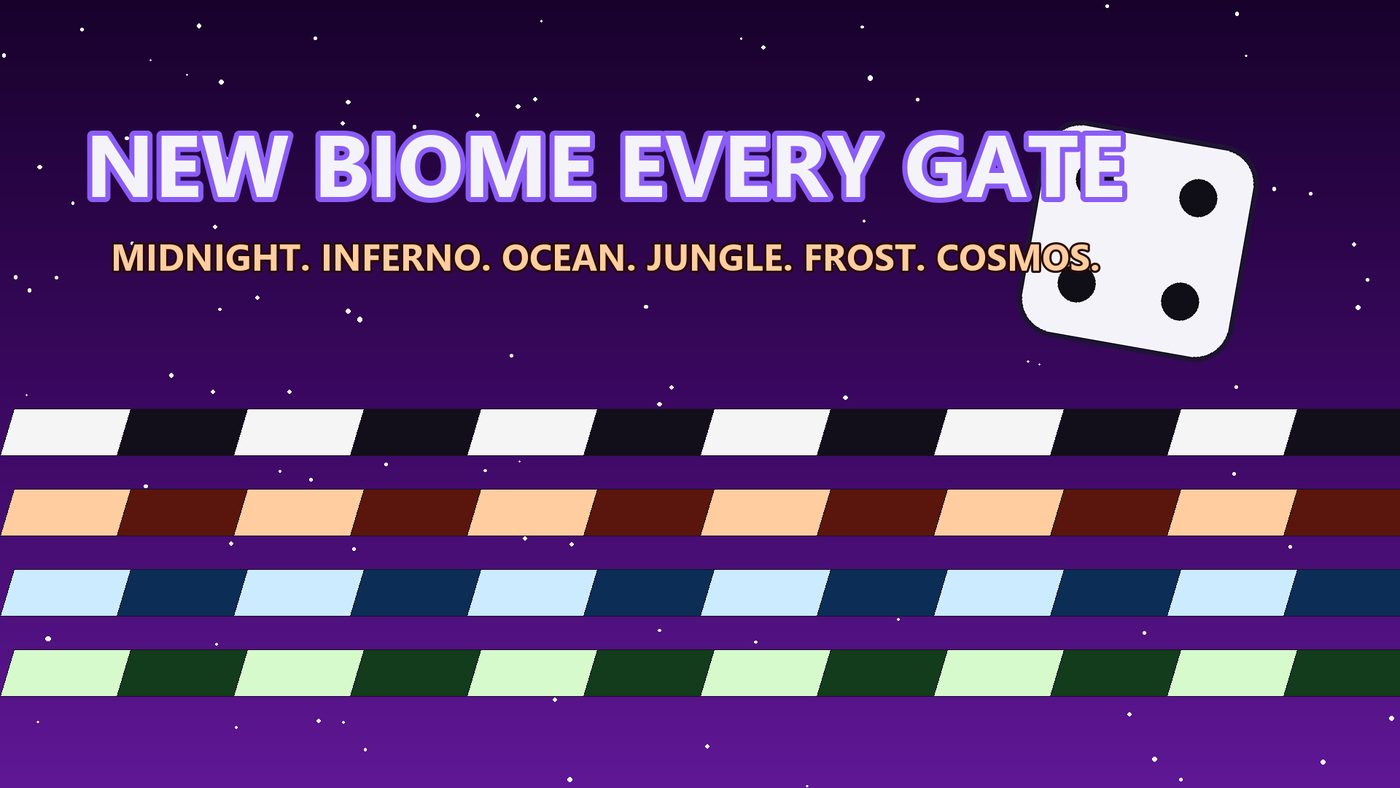
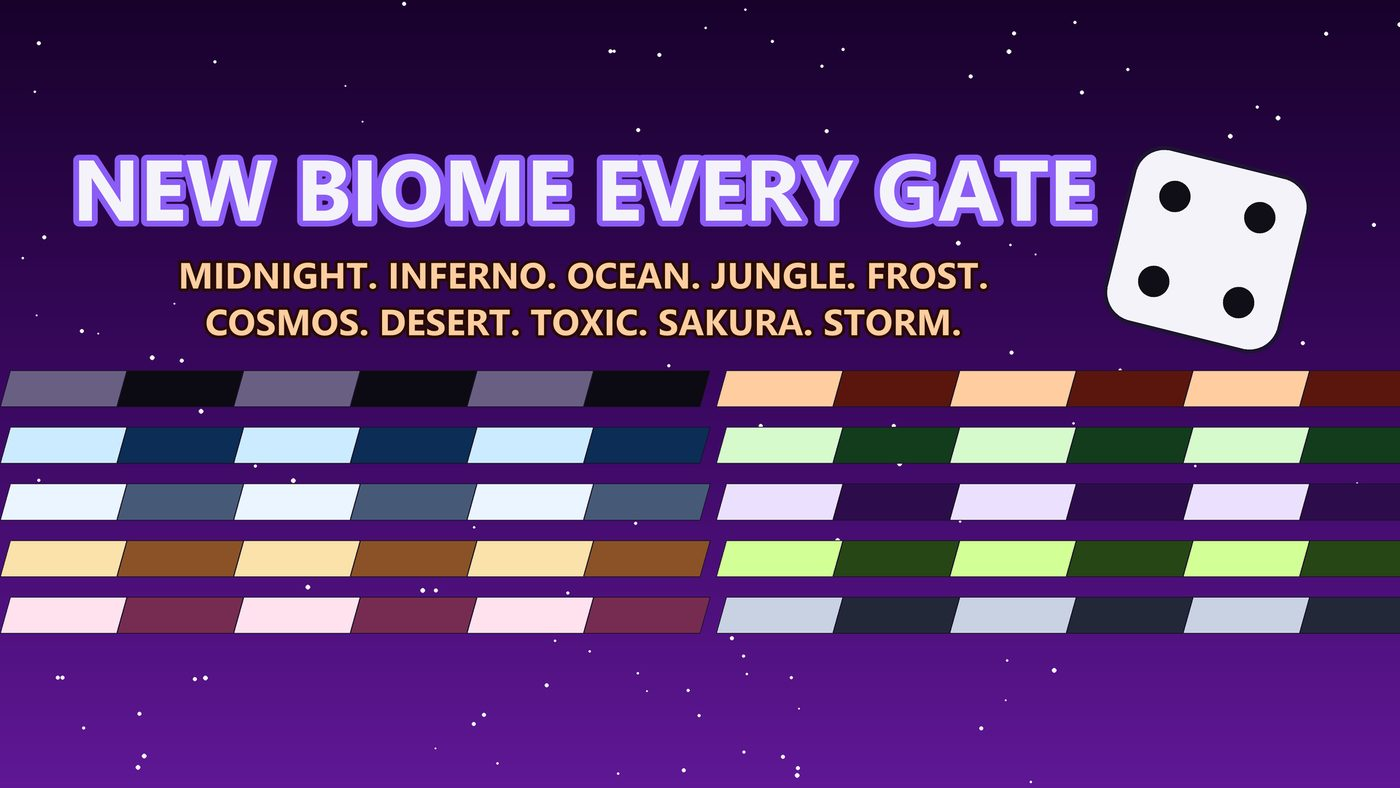
Rogue Roller 2.3.0: 10 biomes, plain gate perks, build panel
Regenerated from Config 2.3.0: four new biomes (Desert, Toxic, Sakura,
Storm) with a board preview and weather on each biome card, the seven
plain perks with icon art and a No downside tag, and the in-run build
panel and biome title card in the basics. New 10 biome banner art.

diff --git a/docs/stylesheets/extra.css b/docs/stylesheets/extra.css
@@ -212,13 +212,13 @@
 
 .rr-grid {
   display: grid;
-  grid-template-columns: repeat(auto-fill, minmax(15.5rem, 1fr));
+  grid-template-columns: repeat(auto-fill, minmax(min(15.5rem, 100%), 1fr));
   gap: 0.9rem;
   margin: 1.2em 0 2.2em;
 }
 
 .rr-grid--wide {
-  grid-template-columns: repeat(auto-fill, minmax(19rem, 1fr));
+  grid-template-columns: repeat(auto-fill, minmax(min(19rem, 100%), 1fr));
 }
 
 .rr-card {
@@ -642,20 +642,157 @@
   box-shadow: inset 0 -3px 0 rgba(0, 0, 0, 0.2), 0 0 14px color-mix(in srgb, var(--c) 50%, transparent);
 }
 
-.rr-strip {
+/* A biome's board preview arrives as the card body: pulled above the head and out to the card's edges. */
+.rr-scene {
   position: relative;
-  height: 3.4rem;
-  border-radius: 12px;
-  background: var(--void);
+  order: -1;
+  height: 7.5rem;
+  margin: -0.95rem -1rem 0;
   overflow: hidden;
+  background:
+    radial-gradient(55% 60% at 50% 60%, color-mix(in srgb, var(--sparkle) 24%, transparent), transparent 72%),
+    linear-gradient(180deg, color-mix(in srgb, var(--void) 55%, #000) 0%, var(--void) 100%);
 }
 
-.rr-strip::before {
+.rr-biome::before {
+  z-index: 1;
+}
+
+/* The shadow sits on the outer box so it falls straight down the screen, under the tilted row. */
+.rr-board {
+  position: absolute;
+  top: 56%;
+  left: 50%;
+  transform: translate(-50%, -50%);
+  filter: drop-shadow(0 0.9rem 0.6rem rgba(0, 0, 0, 0.55));
+}
+
+.rr-board span {
+  display: flex;
+  gap: 0.2rem;
+  transform: perspective(22rem) rotateX(52deg) rotateZ(-16deg);
+}
+
+.rr-board i {
+  width: 2rem;
+  height: 2rem;
+  border-radius: 0.3rem;
+  background: var(--light);
+  box-shadow: inset 0 0 0 1px rgba(255, 255, 255, 0.25), 0 0.3rem 0 color-mix(in srgb, var(--light) 55%, #000);
+}
+
+.rr-board i:nth-child(even) {
+  background: var(--dark);
+  box-shadow: inset 0 0 0 1px rgba(255, 255, 255, 0.1), 0 0.3rem 0 color-mix(in srgb, var(--dark) 55%, #000);
+}
+
+.rr-mote {
+  position: absolute;
+  width: 0.3rem;
+  height: 0.3rem;
+  border-radius: 50%;
+  background: var(--sparkle);
+  box-shadow: 0 0 0.45rem var(--sparkle);
+  opacity: 0.85;
+}
+
+.rr-mote:nth-of-type(1) { left: 9%; top: 22%; }
+.rr-mote:nth-of-type(2) { left: 30%; top: 86%; scale: 0.7; }
+.rr-mote:nth-of-type(3) { left: 36%; top: 12%; scale: 1.25; }
+.rr-mote:nth-of-type(4) { left: 55%; top: 24%; scale: 0.8; }
+.rr-mote:nth-of-type(5) { left: 74%; top: 12%; }
+.rr-mote:nth-of-type(6) { left: 90%; top: 40%; scale: 1.3; }
+.rr-mote:nth-of-type(7) { left: 82%; top: 80%; scale: 0.75; }
+
+.rr-scene--embers .rr-mote {
+  width: 0.22rem;
+  height: 0.22rem;
+  box-shadow: 0 0 0.3rem 0.08rem var(--sparkle);
+}
+
+.rr-scene--fireflies .rr-mote,
+.rr-scene--spores .rr-mote {
+  box-shadow: 0 0 0.4rem 0.14rem var(--sparkle);
+}
+
+.rr-scene--spores .rr-mote {
+  width: 0.42rem;
+  height: 0.42rem;
+  opacity: 0.6;
+}
+
+.rr-scene--bubbles .rr-mote {
+  width: 0.5rem;
+  height: 0.5rem;
+  background: transparent;
+  border: 1.5px solid var(--sparkle);
+  box-shadow: 0 0 0.3rem color-mix(in srgb, var(--sparkle) 45%, transparent);
+}
+
+.rr-scene--stars .rr-mote {
+  width: 0.6rem;
+  height: 0.6rem;
+  border-radius: 0;
+  box-shadow: none;
+  clip-path: polygon(50% 0, 61% 39%, 100% 50%, 61% 61%, 50% 100%, 39% 61%, 0 50%, 39% 39%);
+}
+
+.rr-scene--petals .rr-mote {
+  width: 0.55rem;
+  height: 0.34rem;
+  border-radius: 80% 0;
+  rotate: -25deg;
+  box-shadow: none;
+}
+
+.rr-scene--dust .rr-mote {
+  width: 0.9rem;
+  height: 0.12rem;
+  border-radius: 0.1rem;
+  rotate: -6deg;
+  box-shadow: none;
+  opacity: 0.6;
+}
+
+.rr-scene--rain .rr-mote {
+  width: 0.12rem;
+  height: 1rem;
+  border-radius: 0.1rem;
+  rotate: -16deg;
+  box-shadow: none;
+  opacity: 0.6;
+}
+
+.rr-scene--rain::after {
   content: "";
   position: absolute;
-  inset: 0.9rem -1.5rem;
-  transform: skewX(-24deg);
-  background: repeating-linear-gradient(90deg, var(--light) 0 2.2rem, var(--dark) 2.2rem 4.4rem);
+  top: 0.3rem;
+  left: 63%;
+  width: 1rem;
+  height: 2.6rem;
+  background: var(--sparkle);
+  clip-path: polygon(55% 0, 15% 55%, 45% 55%, 30% 100%, 85% 40%, 55% 40%, 75% 0);
+}
+
+/* On hover the air moves the way the biome's weather does. */
+@media (prefers-reduced-motion: no-preference) {
+  .rr-mote {
+    transition: translate 0.6s ease;
+  }
+
+  .rr-biome:hover .rr-mote {
+    translate: 0 -0.35rem;
+  }
+
+  .rr-biome:hover .rr-scene--snow .rr-mote,
+  .rr-biome:hover .rr-scene--petals .rr-mote,
+  .rr-biome:hover .rr-scene--rain .rr-mote {
+    translate: 0.15rem 0.4rem;
+  }
+
+  .rr-biome:hover .rr-scene--dust .rr-mote {
+    translate: 0.6rem 0;
+  }
 }
 
 /* ------------------------------------------------------------ home and section tiles */

diff --git a/docs/rogue-roller/gate-perks.md b/docs/rogue-roller/gate-perks.md
@@ -6,7 +6,7 @@ Every biome gate lets you pick a free perk card. Perks last for the rest of the 
 
 ## Perk cards
 
-There are **21 perks**. Some pairs pull against each other, like Night Owl and Daybreak: taking the opposite card evens things out again.
+There are **28 perks**. The 11 tagged **No downside** only ever help. Most of the rest trade one thing for another, and some pairs pull against each other, like Night Owl and Daybreak: taking the opposite card evens things out again.
 
 <div class="rr-grid ">
 <div class="rr-card " style="--ring: #8b5cf6"><div class="rr-card-head"><img class="rr-art rr-art--icon" src="../../assets/rogue-roller/icons/perks/perkNightOwl.png" alt="" loading="lazy"><div class="rr-card-title"><strong>Night Owl</strong></div></div><p class="rr-card-body">Dark tiles pay double and light tiles pay half.</p></div>
@@ -14,15 +14,15 @@ There are **21 perks**. Some pairs pull against each other, like Night Owl and D
 <div class="rr-card " style="--ring: #8b5cf6"><div class="rr-card-head"><img class="rr-art rr-art--icon" src="../../assets/rogue-roller/icons/perks/perkEvenKeel.png" alt="" loading="lazy"><div class="rr-card-title"><strong>Even Keel</strong></div></div><p class="rr-card-body">Roll an even number and the roll pays double. Odd numbers pay half.</p></div>
 <div class="rr-card " style="--ring: #8b5cf6"><div class="rr-card-head"><img class="rr-art rr-art--icon" src="../../assets/rogue-roller/icons/perks/perkOddity.png" alt="" loading="lazy"><div class="rr-card-title"><strong>Odd One Out</strong></div></div><p class="rr-card-body">Roll an odd number and the roll pays double. Even numbers pay half.</p></div>
 <div class="rr-card " style="--ring: #8b5cf6"><div class="rr-card-head"><img class="rr-art rr-art--icon" src="../../assets/rogue-roller/icons/perks/perkHighRoll.png" alt="" loading="lazy"><div class="rr-card-title"><strong>High Roller</strong></div></div><p class="rr-card-body">Roll a 4 or higher and the roll pays double. Lower rolls pay half.</p></div>
-<div class="rr-card " style="--ring: #8b5cf6"><div class="rr-card-head"><img class="rr-art rr-art--icon" src="../../assets/rogue-roller/icons/perks/perkUnderdog.png" alt="" loading="lazy"><div class="rr-card-title"><strong>Underdog</strong></div></div><p class="rr-card-body">Roll a 3 or lower and the roll pays double. Higher rolls are unchanged.</p></div>
-<div class="rr-card " style="--ring: #8b5cf6"><div class="rr-card-head"><img class="rr-art rr-art--icon" src="../../assets/rogue-roller/icons/perks/perkAllIn.png" alt="" loading="lazy"><div class="rr-card-title"><strong>All In</strong></div></div><p class="rr-card-body">Every roll pays 1.5x.</p></div>
+<div class="rr-card " style="--ring: #8b5cf6"><div class="rr-card-head"><img class="rr-art rr-art--icon" src="../../assets/rogue-roller/icons/perks/perkUnderdog.png" alt="" loading="lazy"><div class="rr-card-title"><strong>Underdog</strong><div class="rr-tags"><span class="rr-tag" style="--ring: #22c55e">No downside</span></div></div></div><p class="rr-card-body">Roll a 3 or lower and the roll pays double. Higher rolls are unchanged.</p></div>
+<div class="rr-card " style="--ring: #8b5cf6"><div class="rr-card-head"><img class="rr-art rr-art--icon" src="../../assets/rogue-roller/icons/perks/perkAllIn.png" alt="" loading="lazy"><div class="rr-card-title"><strong>All In</strong><div class="rr-tags"><span class="rr-tag" style="--ring: #22c55e">No downside</span></div></div></div><p class="rr-card-body">Every roll pays 1.5x.</p></div>
 <div class="rr-card " style="--ring: #8b5cf6"><div class="rr-card-head"><img class="rr-art rr-art--icon" src="../../assets/rogue-roller/icons/perks/perkCoinFlip.png" alt="" loading="lazy"><div class="rr-card-title"><strong>Coin Flip</strong></div></div><p class="rr-card-body">Each roll pays double or half, with even odds.</p></div>
 <div class="rr-card " style="--ring: #8b5cf6"><div class="rr-card-head"><img class="rr-art rr-art--icon" src="../../assets/rogue-roller/icons/perks/perkFixedOdds.png" alt="" loading="lazy"><div class="rr-card-title"><strong>Fixed Odds</strong></div></div><p class="rr-card-body">Your landing multiplier is fixed at x2.5. Landing, Combo, Equinox and All Points cards stop counting.</p></div>
 <div class="rr-card " style="--ring: #8b5cf6"><div class="rr-card-head"><img class="rr-art rr-art--icon" src="../../assets/rogue-roller/icons/perks/perkTwilight.png" alt="" loading="lazy"><div class="rr-card-title"><strong>Twilight</strong></div></div><p class="rr-card-body">Every tile is worth +2. Unless Blackout or Whiteout is held, colours alternate every tile and Equinox pays in full. Streak cards stop working.</p></div>
 <div class="rr-card " style="--ring: #8b5cf6"><div class="rr-card-head"><img class="rr-art rr-art--icon" src="../../assets/rogue-roller/icons/perks/perkBlackout.png" alt="" loading="lazy"><div class="rr-card-title"><strong>Blackout</strong><div class="rr-tags"><span class="rr-tag rr-tag--plain">Never with Whiteout</span></div></div></div><p class="rr-card-body">Every tile turns dark and pays 25% less. Light Tiles, Landing, Jackpot, Combo, Streak, Equinox, Night Owl and Daybreak cards stop paying. Day Current stops charging without Conductor. Not offered if you hold a Jackpot or Combo, counting copies from your tree, or Mirror, or if light tiles have the bigger bonus.</p></div>
 <div class="rr-card " style="--ring: #8b5cf6"><div class="rr-card-head"><img class="rr-art rr-art--icon" src="../../assets/rogue-roller/icons/perks/perkWhiteout.png" alt="" loading="lazy"><div class="rr-card-title"><strong>Whiteout</strong><div class="rr-tags"><span class="rr-tag rr-tag--plain">Never with Blackout</span></div></div></div><p class="rr-card-body">Every tile turns light and pays 25% less. Dark Tiles, Landing, Jackpot, Combo, Sunburst, Streak, Equinox, Night Owl and Daybreak cards stop paying. Night Current stops charging without Conductor. Not offered if you hold a Jackpot, Combo or Sunburst, counting copies from your tree, or Mirror, or if dark tiles have the bigger bonus.</p></div>
-<div class="rr-card " style="--ring: #8b5cf6"><div class="rr-card-head"><img class="rr-art rr-art--icon" src="../../assets/rogue-roller/icons/perks/perkLucky.png" alt="" loading="lazy"><div class="rr-card-title"><strong>Lucky Seven</strong></div></div><p class="rr-card-body">Every 7th roll of the run pays triple.</p></div>
-<div class="rr-card " style="--ring: #8b5cf6"><div class="rr-card-head"><img class="rr-art rr-art--icon" src="../../assets/rogue-roller/icons/perks/perkSteady.png" alt="" loading="lazy"><div class="rr-card-title"><strong>Steady March</strong><div class="rr-tags"><span class="rr-tag rr-tag--plain">Never with Snail's Pace</span></div></div></div><p class="rr-card-body">However the dice lands, you always move at least 4 tiles.</p></div>
+<div class="rr-card " style="--ring: #8b5cf6"><div class="rr-card-head"><img class="rr-art rr-art--icon" src="../../assets/rogue-roller/icons/perks/perkLucky.png" alt="" loading="lazy"><div class="rr-card-title"><strong>Lucky Seven</strong><div class="rr-tags"><span class="rr-tag" style="--ring: #22c55e">No downside</span></div></div></div><p class="rr-card-body">Every 7th roll of the run pays triple.</p></div>
+<div class="rr-card " style="--ring: #8b5cf6"><div class="rr-card-head"><img class="rr-art rr-art--icon" src="../../assets/rogue-roller/icons/perks/perkSteady.png" alt="" loading="lazy"><div class="rr-card-title"><strong>Steady March</strong><div class="rr-tags"><span class="rr-tag" style="--ring: #22c55e">No downside</span><span class="rr-tag rr-tag--plain">Never with Snail's Pace</span></div></div></div><p class="rr-card-body">However the dice lands, you always move at least 4 tiles.</p></div>
 <div class="rr-card " style="--ring: #8b5cf6"><div class="rr-card-head"><img class="rr-art rr-art--icon" src="../../assets/rogue-roller/icons/perks/perkSnail.png" alt="" loading="lazy"><div class="rr-card-title"><strong>Snail's Pace</strong><div class="rr-tags"><span class="rr-tag rr-tag--plain">Never with Long Stride</span></div></div></div><p class="rr-card-body">You never move more than 3 tiles, but every tile pays double. Steady March can only lift a move to 3.</p></div>
 <div class="rr-card " style="--ring: #8b5cf6"><div class="rr-card-head"><img class="rr-art rr-art--icon" src="../../assets/rogue-roller/icons/perks/perkGoldFever.png" alt="" loading="lazy"><div class="rr-card-title"><strong>Gold Fever</strong></div></div><p class="rr-card-body">Golden tiles pay triple, every other tile pays 25% less. Only offered with Golden Tiles.</p></div>
 <div class="rr-card " style="--ring: #8b5cf6"><div class="rr-card-head"><img class="rr-art rr-art--icon" src="../../assets/rogue-roller/icons/perks/perkLongStride.png" alt="" loading="lazy"><div class="rr-card-title"><strong>Long Stride</strong><div class="rr-tags"><span class="rr-tag rr-tag--plain">Never with Snail's Pace</span></div></div></div><p class="rr-card-body">You move 2 more tiles every roll, but every tile pays 25% less. Steady March's 4 tile minimum already counts the 2, and a Slingshot face still moves 1.</p></div>
@@ -30,6 +30,13 @@ There are **21 perks**. Some pairs pull against each other, like Night Owl and D
 <div class="rr-card " style="--ring: #8b5cf6"><div class="rr-card-head"><img class="rr-art rr-art--icon" src="../../assets/rogue-roller/icons/perks/perkDoubleOrNothing.png" alt="" loading="lazy"><div class="rr-card-title"><strong>Double or Nothing</strong></div></div><p class="rr-card-body">Double Down hits 30% of the time instead of 15%, but a roll where every Double Down misses pays 25% less. Only offered with two or more Double Downs.</p></div>
 <div class="rr-card " style="--ring: #8b5cf6"><div class="rr-card-head"><img class="rr-art rr-art--icon" src="../../assets/rogue-roller/icons/perks/perkEchoChamber.png" alt="" loading="lazy"><div class="rr-card-title"><strong>Echo Chamber</strong></div></div><p class="rr-card-body">Bonus throws from Multi Shot and Omni Shot pay double. Your paid throw pays 20% less.</p></div>
 <div class="rr-card " style="--ring: #8b5cf6"><div class="rr-card-head"><img class="rr-art rr-art--icon" src="../../assets/rogue-roller/icons/perks/perkMirror.png" alt="" loading="lazy"><div class="rr-card-title"><strong>Mirror</strong></div></div><p class="rr-card-body">Light and dark tile bonuses both count on every tile. Landing, Combo and Jackpot cards stop paying. Not offered if you hold a Jackpot or Combo, counting copies from your tree.</p></div>
+<div class="rr-card " style="--ring: #8b5cf6"><div class="rr-card-head"><img class="rr-art rr-art--icon" src="../../assets/rogue-roller/icons/perks/perkSureFooting.png" alt="" loading="lazy"><div class="rr-card-title"><strong>Sure Footing</strong><div class="rr-tags"><span class="rr-tag" style="--ring: #22c55e">No downside</span></div></div></div><p class="rr-card-body">Every tile pays +3.</p></div>
+<div class="rr-card " style="--ring: #8b5cf6"><div class="rr-card-head"><img class="rr-art rr-art--icon" src="../../assets/rogue-roller/icons/perks/perkLoadedPips.png" alt="" loading="lazy"><div class="rr-card-title"><strong>Loaded Pips</strong><div class="rr-tags"><span class="rr-tag" style="--ring: #22c55e">No downside</span></div></div></div><p class="rr-card-body">Every dice side rolls +1 higher.</p></div>
+<div class="rr-card " style="--ring: #8b5cf6"><div class="rr-card-head"><img class="rr-art rr-art--icon" src="../../assets/rogue-roller/icons/perks/perkFreshLegs.png" alt="" loading="lazy"><div class="rr-card-title"><strong>Fresh Legs</strong><div class="rr-tags"><span class="rr-tag" style="--ring: #22c55e">No downside</span></div></div></div><p class="rr-card-body">+8 rolls, right now.</p></div>
+<div class="rr-card " style="--ring: #8b5cf6"><div class="rr-card-head"><img class="rr-art rr-art--icon" src="../../assets/rogue-roller/icons/perks/perkNightLight.png" alt="" loading="lazy"><div class="rr-card-title"><strong>Night Light</strong><div class="rr-tags"><span class="rr-tag" style="--ring: #22c55e">No downside</span></div></div></div><p class="rr-card-body">Dark tiles pay +3.</p></div>
+<div class="rr-card " style="--ring: #8b5cf6"><div class="rr-card-head"><img class="rr-art rr-art--icon" src="../../assets/rogue-roller/icons/perks/perkSunStone.png" alt="" loading="lazy"><div class="rr-card-title"><strong>Sun Stone</strong><div class="rr-tags"><span class="rr-tag" style="--ring: #22c55e">No downside</span></div></div></div><p class="rr-card-body">Light tiles pay +3.</p></div>
+<div class="rr-card " style="--ring: #8b5cf6"><div class="rr-card-head"><img class="rr-art rr-art--icon" src="../../assets/rogue-roller/icons/perks/perkGoldenTouch.png" alt="" loading="lazy"><div class="rr-card-title"><strong>Golden Touch</strong><div class="rr-tags"><span class="rr-tag" style="--ring: #22c55e">No downside</span></div></div></div><p class="rr-card-body">Golden tiles pay +15. Only offered with Golden Tiles.</p></div>
+<div class="rr-card " style="--ring: #8b5cf6"><div class="rr-card-head"><img class="rr-art rr-art--icon" src="../../assets/rogue-roller/icons/perks/perkChargedUp.png" alt="" loading="lazy"><div class="rr-card-title"><strong>Charged Up</strong><div class="rr-tags"><span class="rr-tag" style="--ring: #22c55e">No downside</span></div></div></div><p class="rr-card-body">Your Spark source charges 1 more each time it charges. No source charges more than 5. Only offered once you have picked a Spark source.</p></div>
 </div>
 
 ## Spark sources
@@ -44,4 +51,4 @@ At the first gate of a run you choose how your Spark meter charges, and that cho
 <div class="rr-card " style="--ring: #eab308"><div class="rr-card-head"><img class="rr-art rr-art--icon" src="../../assets/rogue-roller/icons/spark/sparkHot.png" alt="" loading="lazy"><div class="rr-card-title"><strong>Hot Hand</strong></div></div><p class="rr-card-body">Roll a 4 or better: charge 4 Spark.</p></div>
 </div>
 
-<p class="wiki-version">Numbers on this page match Rogue Roller version 2.1.0.</p>
+<p class="wiki-version">Numbers on this page match Rogue Roller version 2.3.0.</p>

diff --git a/docs/rogue-roller/biomes.md b/docs/rogue-roller/biomes.md
@@ -4,17 +4,23 @@
 
 <div class="rr-banner"><img src="../../assets/rogue-roller/biomes.jpg" alt="The Rogue Roller biomes"></div>
 
-There are **6 biomes**. Their order is shuffled at the start of every run, and after the 6th biome the same order repeats. Each biome ends at a gate, see [biomes and gates](basics.md#biomes-and-gates).
+There are **10 biomes**. Their order is shuffled at the start of every run, and after the 10th biome the same order repeats. Each biome ends at a gate, see [biomes and gates](basics.md#biomes-and-gates).
 
 ## Looks
 
+Every biome paints the board in its own colours and fills the air with its own weather.
+
 <div class="rr-grid rr-grid--wide">
-<div class="rr-card " style="--ring: rgb(105, 95, 130)"><div class="rr-card-head"><div class="rr-card-title"><strong>Midnight</strong></div></div><div class="rr-strip" style="--light: rgb(105, 95, 130); --dark: rgb(12, 10, 18); --void: rgb(38, 8, 64)"></div></div>
-<div class="rr-card " style="--ring: rgb(255, 205, 160)"><div class="rr-card-head"><div class="rr-card-title"><strong>Inferno</strong></div></div><div class="rr-strip" style="--light: rgb(255, 205, 160); --dark: rgb(90, 22, 12); --void: rgb(120, 25, 15)"></div></div>
-<div class="rr-card " style="--ring: rgb(205, 235, 255)"><div class="rr-card-head"><div class="rr-card-title"><strong>Ocean</strong></div></div><div class="rr-strip" style="--light: rgb(205, 235, 255); --dark: rgb(12, 45, 85); --void: rgb(15, 40, 110)"></div></div>
-<div class="rr-card " style="--ring: rgb(215, 250, 205)"><div class="rr-card-head"><div class="rr-card-title"><strong>Jungle</strong></div></div><div class="rr-strip" style="--light: rgb(215, 250, 205); --dark: rgb(18, 60, 28); --void: rgb(16, 75, 40)"></div></div>
-<div class="rr-card " style="--ring: rgb(235, 245, 255)"><div class="rr-card-head"><div class="rr-card-title"><strong>Frost</strong></div></div><div class="rr-strip" style="--light: rgb(235, 245, 255); --dark: rgb(70, 90, 120); --void: rgb(45, 70, 130)"></div></div>
-<div class="rr-card " style="--ring: rgb(235, 225, 255)"><div class="rr-card-head"><div class="rr-card-title"><strong>Cosmos</strong></div></div><div class="rr-strip" style="--light: rgb(235, 225, 255); --dark: rgb(45, 12, 75); --void: rgb(30, 6, 55)"></div></div>
+<div class="rr-card rr-biome" style="--ring: rgb(146, 132, 160)"><div class="rr-card-head"><div class="rr-card-title"><strong>Midnight</strong><div class="rr-tags"><span class="rr-tag rr-tag--plain">Drifting motes</span></div></div></div><p class="rr-card-body">Dusky violet and black tiles in a still purple night.</p><div class="rr-scene rr-scene--motes" style="--light: rgb(105, 95, 130); --dark: rgb(12, 10, 18); --void: rgb(38, 8, 64); --sparkle: rgb(255, 255, 255)" aria-hidden="true"><div class="rr-board"><span><i></i><i></i><i></i><i></i><i></i><i></i></span></div><i class="rr-mote"></i><i class="rr-mote"></i><i class="rr-mote"></i><i class="rr-mote"></i><i class="rr-mote"></i><i class="rr-mote"></i><i class="rr-mote"></i></div></div>
+<div class="rr-card rr-biome" style="--ring: rgb(188, 92, 42)"><div class="rr-card-head"><div class="rr-card-title"><strong>Inferno</strong><div class="rr-tags"><span class="rr-tag rr-tag--plain">Rising embers</span></div></div></div><p class="rr-card-body">Hot peach and ember red tiles over a blazing red glow.</p><div class="rr-scene rr-scene--embers" style="--light: rgb(255, 205, 160); --dark: rgb(90, 22, 12); --void: rgb(120, 25, 15); --sparkle: rgb(255, 160, 70)" aria-hidden="true"><div class="rr-board"><span><i></i><i></i><i></i><i></i><i></i><i></i></span></div><i class="rr-mote"></i><i class="rr-mote"></i><i class="rr-mote"></i><i class="rr-mote"></i><i class="rr-mote"></i><i class="rr-mote"></i><i class="rr-mote"></i></div></div>
+<div class="rr-card rr-biome" style="--ring: rgb(82, 128, 182)"><div class="rr-card-head"><div class="rr-card-title"><strong>Ocean</strong><div class="rr-tags"><span class="rr-tag rr-tag--plain">Rising bubbles</span></div></div></div><p class="rr-card-body">Pale blue and deep navy tiles, far below the waves.</p><div class="rr-scene rr-scene--bubbles" style="--light: rgb(205, 235, 255); --dark: rgb(12, 45, 85); --void: rgb(15, 40, 110); --sparkle: rgb(150, 215, 255)" aria-hidden="true"><div class="rr-board"><span><i></i><i></i><i></i><i></i><i></i><i></i></span></div><i class="rr-mote"></i><i class="rr-mote"></i><i class="rr-mote"></i><i class="rr-mote"></i><i class="rr-mote"></i><i class="rr-mote"></i><i class="rr-mote"></i></div></div>
+<div class="rr-card rr-biome" style="--ring: rgb(98, 165, 100)"><div class="rr-card-head"><div class="rr-card-title"><strong>Jungle</strong><div class="rr-tags"><span class="rr-tag rr-tag--plain">Blinking fireflies</span></div></div></div><p class="rr-card-body">Mint and moss tiles under a warm green canopy.</p><div class="rr-scene rr-scene--fireflies" style="--light: rgb(215, 250, 205); --dark: rgb(18, 60, 28); --void: rgb(16, 75, 40); --sparkle: rgb(180, 255, 160)" aria-hidden="true"><div class="rr-board"><span><i></i><i></i><i></i><i></i><i></i><i></i></span></div><i class="rr-mote"></i><i class="rr-mote"></i><i class="rr-mote"></i><i class="rr-mote"></i><i class="rr-mote"></i><i class="rr-mote"></i><i class="rr-mote"></i></div></div>
+<div class="rr-card rr-biome" style="--ring: rgb(135, 155, 192)"><div class="rr-card-head"><div class="rr-card-title"><strong>Frost</strong><div class="rr-tags"><span class="rr-tag rr-tag--plain">Falling snow</span></div></div></div><p class="rr-card-body">Snow white and steel blue tiles in a frozen sky.</p><div class="rr-scene rr-scene--snow" style="--light: rgb(235, 245, 255); --dark: rgb(70, 90, 120); --void: rgb(45, 70, 130); --sparkle: rgb(225, 240, 255)" aria-hidden="true"><div class="rr-board"><span><i></i><i></i><i></i><i></i><i></i><i></i></span></div><i class="rr-mote"></i><i class="rr-mote"></i><i class="rr-mote"></i><i class="rr-mote"></i><i class="rr-mote"></i><i class="rr-mote"></i><i class="rr-mote"></i></div></div>
+<div class="rr-card rr-biome" style="--ring: rgb(128, 93, 155)"><div class="rr-card-head"><div class="rr-card-title"><strong>Cosmos</strong><div class="rr-tags"><span class="rr-tag rr-tag--plain">Twinkling stars</span></div></div></div><p class="rr-card-body">Lavender and violet tiles drifting through deep space.</p><div class="rr-scene rr-scene--stars" style="--light: rgb(235, 225, 255); --dark: rgb(45, 12, 75); --void: rgb(30, 6, 55); --sparkle: rgb(225, 180, 255)" aria-hidden="true"><div class="rr-board"><span><i></i><i></i><i></i><i></i><i></i><i></i></span></div><i class="rr-mote"></i><i class="rr-mote"></i><i class="rr-mote"></i><i class="rr-mote"></i><i class="rr-mote"></i><i class="rr-mote"></i><i class="rr-mote"></i></div></div>
+<div class="rr-card rr-biome" style="--ring: rgb(202, 153, 83)"><div class="rr-card-head"><div class="rr-card-title"><strong>Desert</strong><div class="rr-tags"><span class="rr-tag rr-tag--plain">Blowing sand</span></div></div></div><p class="rr-card-body">Pale sand and baked clay tiles under a hot amber sky.</p><div class="rr-scene rr-scene--dust" style="--light: rgb(250, 226, 170); --dark: rgb(138, 82, 38); --void: rgb(150, 92, 36); --sparkle: rgb(255, 214, 130)" aria-hidden="true"><div class="rr-board"><span><i></i><i></i><i></i><i></i><i></i><i></i></span></div><i class="rr-mote"></i><i class="rr-mote"></i><i class="rr-mote"></i><i class="rr-mote"></i><i class="rr-mote"></i><i class="rr-mote"></i><i class="rr-mote"></i></div></div>
+<div class="rr-card rr-biome" style="--ring: rgb(102, 168, 42)"><div class="rr-card-head"><div class="rr-card-title"><strong>Toxic</strong><div class="rr-tags"><span class="rr-tag rr-tag--plain">Glowing spores</span></div></div></div><p class="rr-card-body">Acid lime and murky green tiles in a poisonous haze.</p><div class="rr-scene rr-scene--spores" style="--light: rgb(210, 255, 150); --dark: rgb(38, 70, 22); --void: rgb(34, 82, 24); --sparkle: rgb(170, 255, 60)" aria-hidden="true"><div class="rr-board"><span><i></i><i></i><i></i><i></i><i></i><i></i></span></div><i class="rr-mote"></i><i class="rr-mote"></i><i class="rr-mote"></i><i class="rr-mote"></i><i class="rr-mote"></i><i class="rr-mote"></i><i class="rr-mote"></i></div></div>
+<div class="rr-card rr-biome" style="--ring: rgb(198, 120, 158)"><div class="rr-card-head"><div class="rr-card-title"><strong>Sakura</strong><div class="rr-tags"><span class="rr-tag rr-tag--plain">Falling petals</span></div></div></div><p class="rr-card-body">Blossom pink and plum tiles in a soft rosy glow.</p><div class="rr-scene rr-scene--petals" style="--light: rgb(255, 226, 238); --dark: rgb(118, 44, 80); --void: rgb(140, 58, 100); --sparkle: rgb(255, 182, 216)" aria-hidden="true"><div class="rr-board"><span><i></i><i></i><i></i><i></i><i></i><i></i></span></div><i class="rr-mote"></i><i class="rr-mote"></i><i class="rr-mote"></i><i class="rr-mote"></i><i class="rr-mote"></i><i class="rr-mote"></i><i class="rr-mote"></i></div></div>
+<div class="rr-card rr-biome" style="--ring: rgb(117, 136, 166)"><div class="rr-card-head"><div class="rr-card-title"><strong>Storm</strong><div class="rr-tags"><span class="rr-tag rr-tag--plain">Rain and lightning</span></div></div></div><p class="rr-card-body">Cloud grey and slate tiles under a thundering sky.</p><div class="rr-scene rr-scene--rain" style="--light: rgb(200, 210, 226); --dark: rgb(34, 40, 56); --void: rgb(44, 50, 76); --sparkle: rgb(190, 222, 255)" aria-hidden="true"><div class="rr-board"><span><i></i><i></i><i></i><i></i><i></i><i></i></span></div><i class="rr-mote"></i><i class="rr-mote"></i><i class="rr-mote"></i><i class="rr-mote"></i><i class="rr-mote"></i><i class="rr-mote"></i><i class="rr-mote"></i></div></div>
 </div>
 
 ## Lengths
@@ -34,4 +40,4 @@ The length depends on how many biomes into the run you are, not which biome it i
 | 9 | 1,070 | 5,075 |
 | 10 | 1,195 | 6,270 |
 
-<p class="wiki-version">Numbers on this page match Rogue Roller version 2.1.0.</p>
+<p class="wiki-version">Numbers on this page match Rogue Roller version 2.3.0.</p>

diff --git a/docs/rogue-roller/forge.md b/docs/rogue-roller/forge.md
@@ -16,6 +16,40 @@ Every crate draws from all 37 effects. Dearer crates can't land below a certain 
 
 Every 40th crate you open is **Rare or better**, whichever crate it is.
 
+## Your bag
+
+Cards you open go into your bag. Copies of the same effect share one card with a count. Above the bag:
+
+- **Search** by effect name or rarity.
+- The **rarity** button shows every card, then only Common, Uncommon and so on up to Mythic.
+- The **sort** button puts cards in the order you got them, rarest first, or A to Z.
+
+A card from a new crate always shows, so opening one clears the search and the rarity filter.
+
+## Loadouts
+
+Tap **LOADOUTS** on the forge page to save what your die wears and put it back on later.
+
+- **SAVE** stores all six faces in a slot. Saving over a used slot asks first.
+- **LOAD** puts the saved effects back on. Faces that already match stay put, the rest go back to your bag, then each face takes its card from the bag. If a card is no longer in your bag, that face is left bare.
+- Tap a slot's name to rename it, up to 20 characters.
+- Loadouts load between runs, not during one.
+
+You start with 1 free slot. Each extra slot costs more meta than the last, up to 10 slots:
+
+| Slot | Price |
+| --- | --- |
+| Slot 1 | Free |
+| Slot 2 | 500 meta |
+| Slot 3 | 1,250 meta |
+| Slot 4 | 3,150 meta |
+| Slot 5 | 7,800 meta |
+| Slot 6 | 19,550 meta |
+| Slot 7 | 48,850 meta |
+| Slot 8 | 122,050 meta |
+| Slot 9 | 305,200 meta |
+| Slot 10 | 762,950 meta |
+
 ## Effects
 
 The numbers along the bottom of each card are the chance of getting that exact effect from one crate. Weight effects make a face come up more or less often, so their size can't be given as a number.
@@ -122,4 +156,4 @@ Every time a Chaos face lands, it turns into one of these 28 effects at the effe
 | Omni Shot | Mythic | 1.48% |
 | Resonance | Mythic | 1.48% |
 
-<p class="wiki-version">Numbers on this page match Rogue Roller version 2.1.0.</p>
+<p class="wiki-version">Numbers on this page match Rogue Roller version 2.3.0.</p>

diff --git a/docs/rogue-roller/basics.md b/docs/rogue-roller/basics.md
@@ -11,6 +11,8 @@
 - You start with **100 rolls** and a normal 1 to 6 die.
 - Each roll moves your ball that many tiles, and every tile you cross pays points: 1 point to start with, plus whatever your upgrades add.
 - Tiles are light or dark. Lots of cards care which colour you land on.
+- The list beside the board shows your whole build: the perks you picked and the shop upgrades you hold, with a count on each. Hover or tap a row to read what it does.
+- Rolling into a new biome shows its name on a title card.
 - The run ends when you run out of rolls. Your score then turns into [meta points](#meta-points).
 - **Auto Roll** rolls for you, with a 1 second pause between rolls. Everyone unlocks it after 15 minutes of play, counted across sessions. Tap the AUTO button in a run to open its menu.
 - **Autopilot**, the [pass](store.md) (also included with Roblox Premium), unlocks Auto Roll straight away, rolls as fast as the game allows, can take your gate cards and Spark choice for you (the left card, the right card, or a skip for the perk), and can stop itself when your rolls run low.
@@ -81,4 +83,4 @@ Own every level of the base meta tree and you can ascend, up to 5 times. Ascendi
 
 There is one [daily challenge](daily-challenges.md) a day, the same for everyone, and it changes at midnight UTC. Meet it in a run to earn meta.
 
-<p class="wiki-version">Numbers on this page match Rogue Roller version 2.1.0.</p>
+<p class="wiki-version">Numbers on this page match Rogue Roller version 2.3.0.</p>

diff --git a/docs/rogue-roller/index.md b/docs/rogue-roller/index.md
@@ -21,7 +21,7 @@ Rogue Roller is based on [RollScape](https://store.steampowered.com/app/2904290/
 <a class="aa-tile" href="badges/" style="--ring: #f97316"><img src="../assets/rogue-roller/badges/badge_topface.png" alt=""><span><strong>Badges</strong><span class="aa-tile-text">All the badges and how to earn them.</span></span></a>
 <a class="aa-tile" href="cosmetics/" style="--ring: #f97316"><img src="../assets/rogue-roller/skins/diceember.png" alt=""><span><strong>Cosmetics</strong><span class="aa-tile-text">Dice and ball skins, and where to get them.</span></span></a>
 <a class="aa-tile" href="store/" style="--ring: #eab308"><img src="../assets/rogue-roller/store/doublemeta.png" alt=""><span><strong>Store</strong><span class="aa-tile-text">Passes, packs and what Premium gives you.</span></span></a>
-<a class="aa-tile" href="biomes/" style="--ring: #14b8a6"><img src="../assets/rogue-roller/icons/sections/biomes.png" alt=""><span><strong>Biomes</strong><span class="aa-tile-text">The six biomes and how long each one is.</span></span></a>
+<a class="aa-tile" href="biomes/" style="--ring: #14b8a6"><img src="../assets/rogue-roller/icons/sections/biomes.png" alt=""><span><strong>Biomes</strong><span class="aa-tile-text">Every biome, its look and weather, and how long each one is.</span></span></a>
 </div>
 
 Most pages are built straight from the game's own settings, so the numbers match the version shown at the bottom of each page.

diff --git a/docs/index.md b/docs/index.md
@@ -18,7 +18,7 @@ hide:
 <a class="aa-tile" href="rogue-roller/badges/" style="--ring: #f97316"><img src="assets/rogue-roller/badges/badge_topface.png" alt=""><span><strong>Badges</strong><span class="aa-tile-text">All the badges and how to earn them.</span></span></a>
 <a class="aa-tile" href="rogue-roller/cosmetics/" style="--ring: #f97316"><img src="assets/rogue-roller/skins/diceember.png" alt=""><span><strong>Cosmetics</strong><span class="aa-tile-text">Dice and ball skins, and where to get them.</span></span></a>
 <a class="aa-tile" href="rogue-roller/store/" style="--ring: #eab308"><img src="assets/rogue-roller/store/doublemeta.png" alt=""><span><strong>Store</strong><span class="aa-tile-text">Passes, packs and what Premium gives you.</span></span></a>
-<a class="aa-tile" href="rogue-roller/biomes/" style="--ring: #14b8a6"><img src="assets/rogue-roller/icons/sections/biomes.png" alt=""><span><strong>Biomes</strong><span class="aa-tile-text">The six biomes and how long each one is.</span></span></a>
+<a class="aa-tile" href="rogue-roller/biomes/" style="--ring: #14b8a6"><img src="assets/rogue-roller/icons/sections/biomes.png" alt=""><span><strong>Biomes</strong><span class="aa-tile-text">Every biome, its look and weather, and how long each one is.</span></span></a>
 </div>
 
 ## Community

diff --git a/docs/rogue-roller/meta-tree.md b/docs/rogue-roller/meta-tree.md
@@ -254,4 +254,4 @@ Every ascension opens a branch: the ascension's first node, then more nodes hang
 <div class="rr-card " style="--ring: #ec4899"><div class="rr-card-head"><img class="rr-art rr-art--icon" src="../../assets/rogue-roller/icons/meta/treasureMap.png" alt="" loading="lazy"><div class="rr-card-title"><strong>Treasure Map</strong><div class="rr-tags"><span class="rr-tag" style="--ring: #ec4899">Ascension 5</span><span class="rr-tag rr-tag--plain">Needs Midas Touch</span><span class="rr-tag rr-tag--plain">1 level</span></div></div></div><p class="rr-card-body">The first golden tile you land on in each biome pays 10x.</p><div class="rr-card-foot"><span class="rr-price"><small>Lv 1</small><b>1,700</b></span></div></div>
 </div>
 
-<p class="wiki-version">Numbers on this page match Rogue Roller version 2.1.0.</p>
+<p class="wiki-version">Numbers on this page match Rogue Roller version 2.3.0.</p>

diff --git a/docs/rogue-roller/shop-upgrades.md b/docs/rogue-roller/shop-upgrades.md
@@ -87,4 +87,4 @@ Dealt in the Ult shop.
 <div class="rr-card " style="--ring: #eab308"><div class="rr-card-head"><img class="rr-art rr-art--icon" src="../../assets/rogue-roller/icons/upgrades/golden3.png" alt="" loading="lazy"><div class="rr-card-title"><strong>Golden Lode</strong><div class="rr-tags"><span class="rr-tag">Tier 4</span><span class="rr-tag rr-tag--plain">Needs Golden Tiles</span></div></div></div><p class="rr-card-body">Golden tiles pay +40 more (needs Golden Tiles).</p><div class="rr-card-foot"><span class="rr-price"><small>1st</small><b>22,000</b></span><span class="rr-price"><small>2nd</small><b>176,000</b></span><span class="rr-price"><small>3rd</small><b>594,000</b></span></div></div>
 </div>
 
-<p class="wiki-version">Numbers on this page match Rogue Roller version 2.1.0.</p>
+<p class="wiki-version">Numbers on this page match Rogue Roller version 2.3.0.</p>

diff --git a/docs/rogue-roller/badges.md b/docs/rogue-roller/badges.md
@@ -37,4 +37,4 @@ Rogue Roller has **30 badges**. Each name links to the badge on Roblox.
 <div class="rr-card " style="--ring: #8b5cf6"><div class="rr-card-head"><img class="rr-art" src="../../assets/rogue-roller/badges/badge_wardrobe.png" alt="" loading="lazy"><div class="rr-card-title"><strong><a href="https://www.roblox.com/badges/2734054518902614">Wardrobe</a></strong></div></div><p class="rr-card-body">Own 10 cosmetics you bought.</p></div>
 </div>
 
-<p class="wiki-version">Numbers on this page match Rogue Roller version 2.1.0.</p>
+<p class="wiki-version">Numbers on this page match Rogue Roller version 2.3.0.</p>

diff --git a/docs/rogue-roller/daily-challenges.md b/docs/rogue-roller/daily-challenges.md
@@ -18,4 +18,4 @@ Meet the challenge on back to back days to build a streak. Miss a day and the ne
 
 Reach a 7 day streak once to earn the **Keeper** dice, and it stays yours even if the streak breaks later.
 
-<p class="wiki-version">Numbers on this page match Rogue Roller version 2.1.0.</p>
+<p class="wiki-version">Numbers on this page match Rogue Roller version 2.3.0.</p>

diff --git a/docs/rogue-roller/cosmetics.md b/docs/rogue-roller/cosmetics.md
@@ -47,4 +47,4 @@ Everyone can paint their dice and ball with these colours for free, on top of an
 
 The Colour Picker [pass](store.md#game-passes) lets you mix any colour you like.
 
-<p class="wiki-version">Numbers on this page match Rogue Roller version 2.1.0.</p>
+<p class="wiki-version">Numbers on this page match Rogue Roller version 2.3.0.</p>
